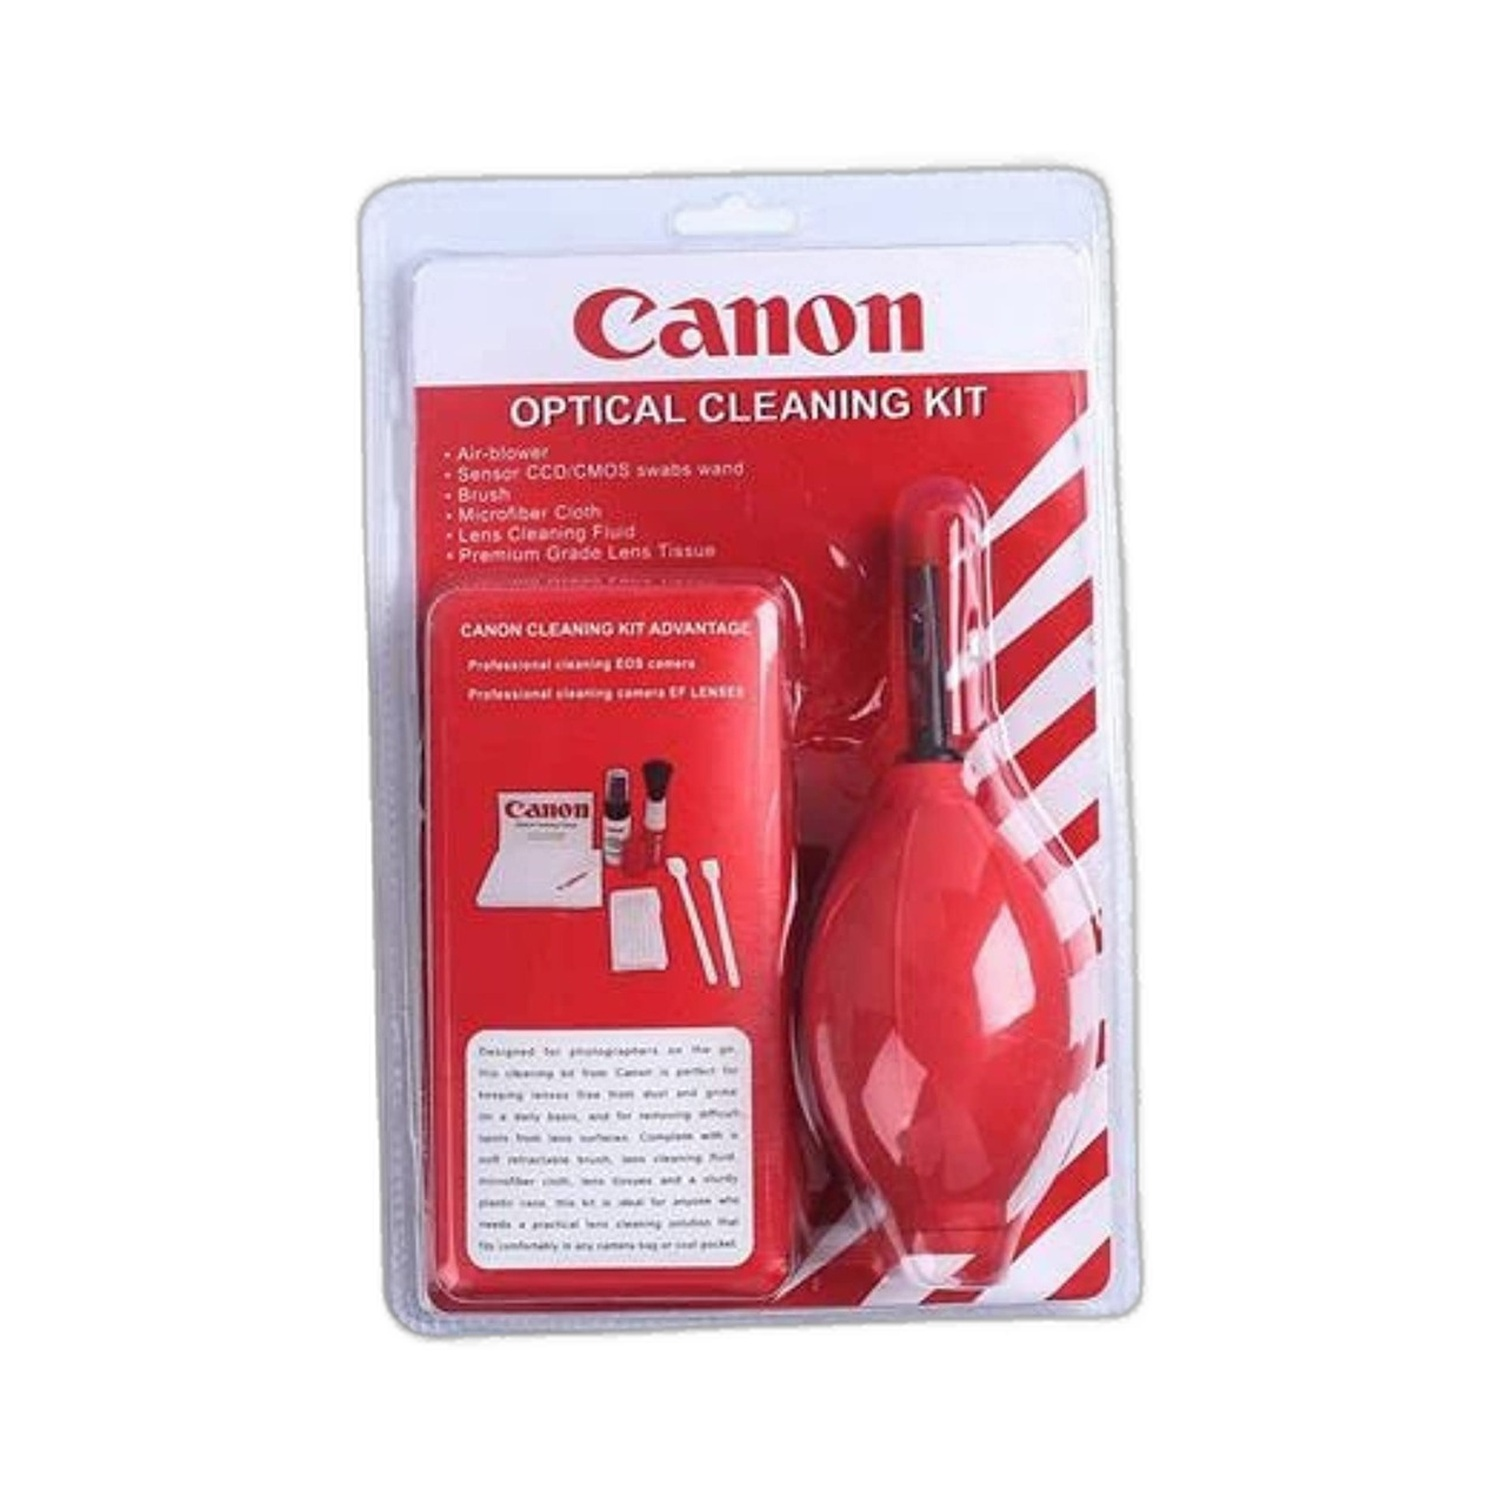
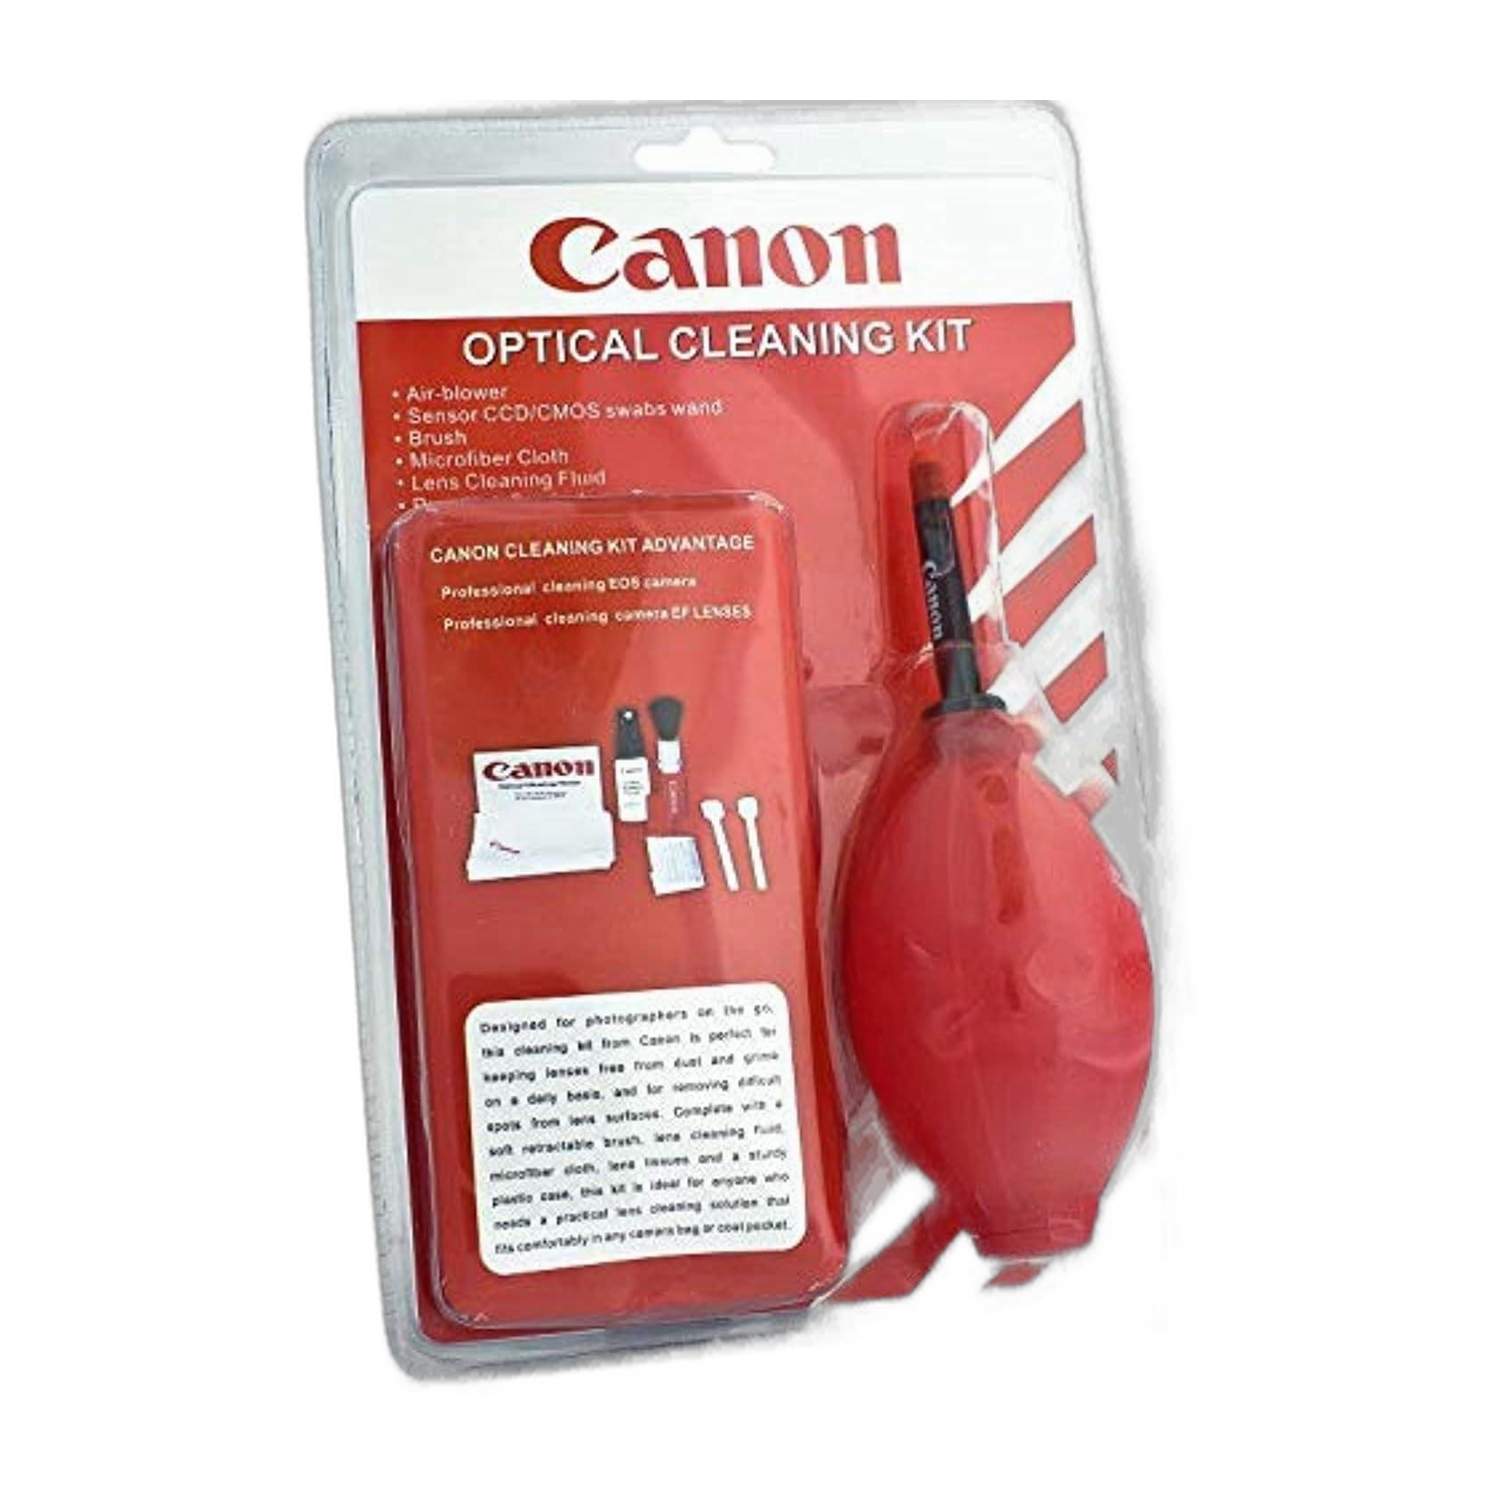
Update: rename prompters category to Teleprompter, remove panda cap, and replace cleaning kits with ultra high-res studio photos

diff --git a/index.html b/index.html
@@ -577,7 +577,7 @@
         <div class="w-14 h-14 sm:w-16 sm:h-16 rounded-full bg-[#e0e7ff] flex items-center justify-center p-2 transition transform group-hover:scale-105 active:scale-95 shadow-sm">
           <img src="images/products/feelworld-tp16-teleprompter-16.jpg" alt="Teleprompters" class="w-full h-full object-contain rounded-full">
         </div>
-        <span class="text-[11px] sm:text-xs font-semibold text-slate-700 text-center">Prompters</span>
+        <span class="text-[11px] sm:text-xs font-semibold text-slate-700 text-center">Teleprompter</span>
       </div>
 
       <!-- 10. Bags & Straps -->
@@ -2489,7 +2489,7 @@
     const CATEGORY_META = {
       all: { ar: 'جميع المعدات وأنظمة التصوير (500 منتج أصلي)', sub: 'تصفح كافة المعدات السينمائية والفوتوغرافية المتوفرة' },
       accessories: { ar: 'الإكسسوارات وأغطية العدسات (Accessories & Caps)', sub: 'أغطية الحماية، هودات العدسات، أطقم التنظيف، وأكياس التثبيت' },
-      teleprompters: { ar: 'شاشات التلقين والبرومبتر (Teleprompters)', sub: 'شاشات تلقين النصوص للكاميرات والأجهزة اللوحية والموبايل' },
+      teleprompters: { ar: 'شاشات التلقين (Teleprompter)', sub: 'شاشات تلقين النصوص الاحترافية للكاميرات والأجهزة اللوحية والموبايل' },
       wireless_video_and_intercom: { ar: 'أنظمة البث والإنتركوم اللاسلكي', sub: 'أجهزة نقل الفيديو والاتصال الميداني اللاسلكي' },
       tripods: { ar: 'الترايبودز والحوامل الثلاثية', sub: 'ترايبودز الكاميرا والفيديو' },
       stands: { ar: 'الستاندات وحوامل الإضاءة', sub: 'ستاندات الإضاءة والحوامل' },

diff --git a/js/data.js b/js/data.js
@@ -6,7 +6,7 @@ const INITIAL_CATEGORIES = [
     "id": "all",
     "name": "جميع المعدات",
     "icon": "fa-layer-group",
-    "count": 497
+    "count": 496
   },
   {
     "id": "cameras",
@@ -73,7 +73,7 @@ const INITIAL_CATEGORIES = [
   },
   {
     "id": "teleprompters",
-    "name": "ملقنات وشاشات تلقين (Teleprompters)",
+    "name": "شاشات تلقين (Teleprompter)",
     "icon": "fa-tv",
     "count": 5,
     "image": "images/products/feelworld-tp16-teleprompter-16.jpg"
@@ -10235,25 +10235,6 @@ const INITIAL_PRODUCTS = [
       "الكمية": "3 أكياس مزدوجة السحاب + حلقات كارابينر معدنية",
       "المادة": "قماش أكسفورد نايلون عالي الكثافة مقاوم للماء والتمزق",
       "الاستخدام": "تثبيت ستاندات الإضاءة، السي-ستاند (C-Stand)، وحوامل الكاميرا"
-    }
-  },
-  {
-    "id": "NEW-063",
-    "stock": 25,
-    "name": "Panda 3D Decorative Hot Shoe Cap",
-    "nameEn": "Panda 3D Cute Hot Shoe Cover Protector",
-    "badge": "كاب باندا كيوت",
-    "price": 6,
-    "category": "accessories",
-    "brand": "Custom",
-    "image": "images/products/panda-3d-hotshoe-cap.jpg",
-    "gallery": [
-      "images/products/panda-3d-hotshoe-cap.jpg"
-    ],
-    "description": "غطاء هوت شو (Hot Shoe) ثلاثي الأبعاد بتصميم الباندا اللطيف، يحمي نقاط التوصيل الإلكترونية من الرطوبة والغبار ويمنح الكاميرا مظهراً مميزاً.",
-    "specs": {
-      "التصميم": "باندا كرتوني مجسم 3D",
-      "التوافق": "جميع كاميرات كانون، نيكون، سوني، فوجي مع منفذ Hot Shoe قياسي"
     }
   },
   {

diff --git a/js/store.js b/js/store.js
@@ -2,8 +2,8 @@
 // Camera Store Database & State Layer - TOP CAM Jordan
 
 const STORE_KEYS = {
-  PRODUCTS: 'camera_store_products_v31_master',
-  DELETED_IDS: 'camera_store_deleted_ids_v31_clean',
+  PRODUCTS: 'camera_store_products_v32_clean_kits',
+  DELETED_IDS: 'camera_store_deleted_ids_v32_clean',
   ORDERS: 'camera_store_orders_v1',
   CART: 'camera_store_cart_v1',
   SETTINGS: 'camera_store_settings_v1',
